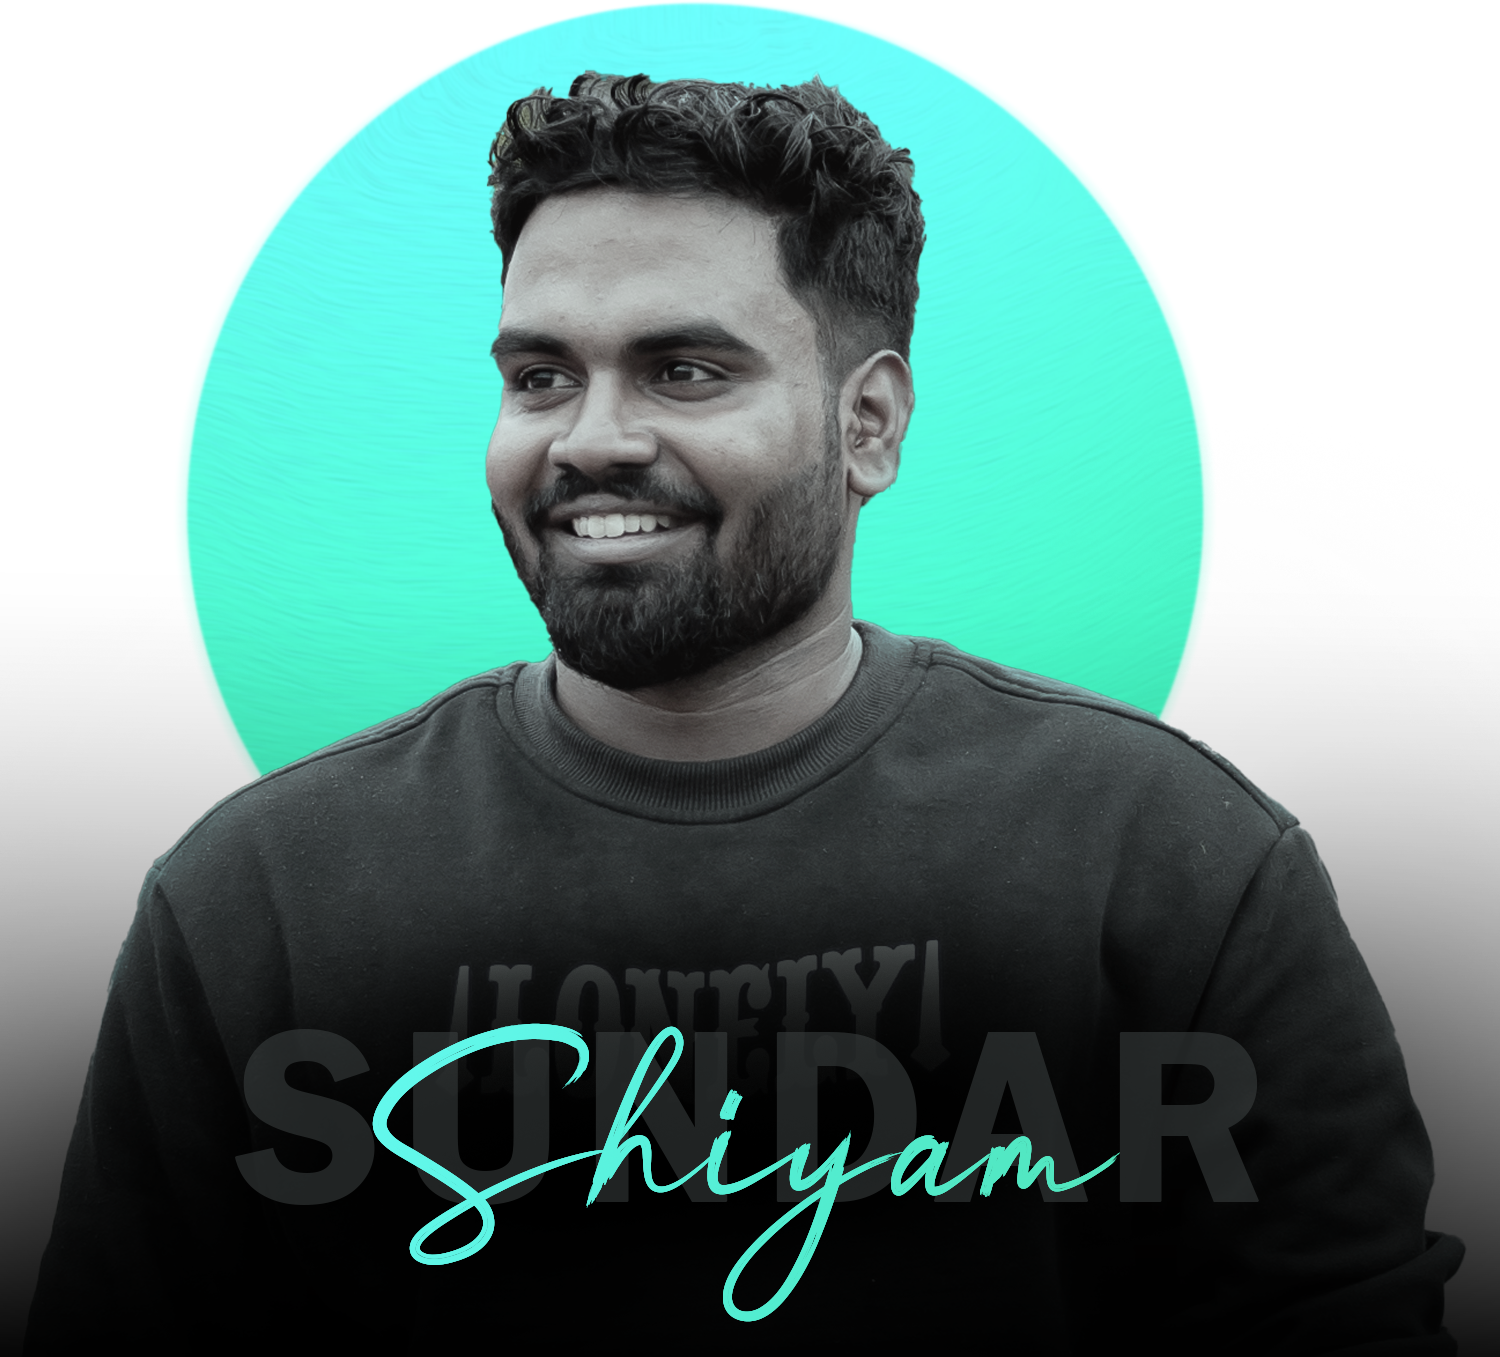
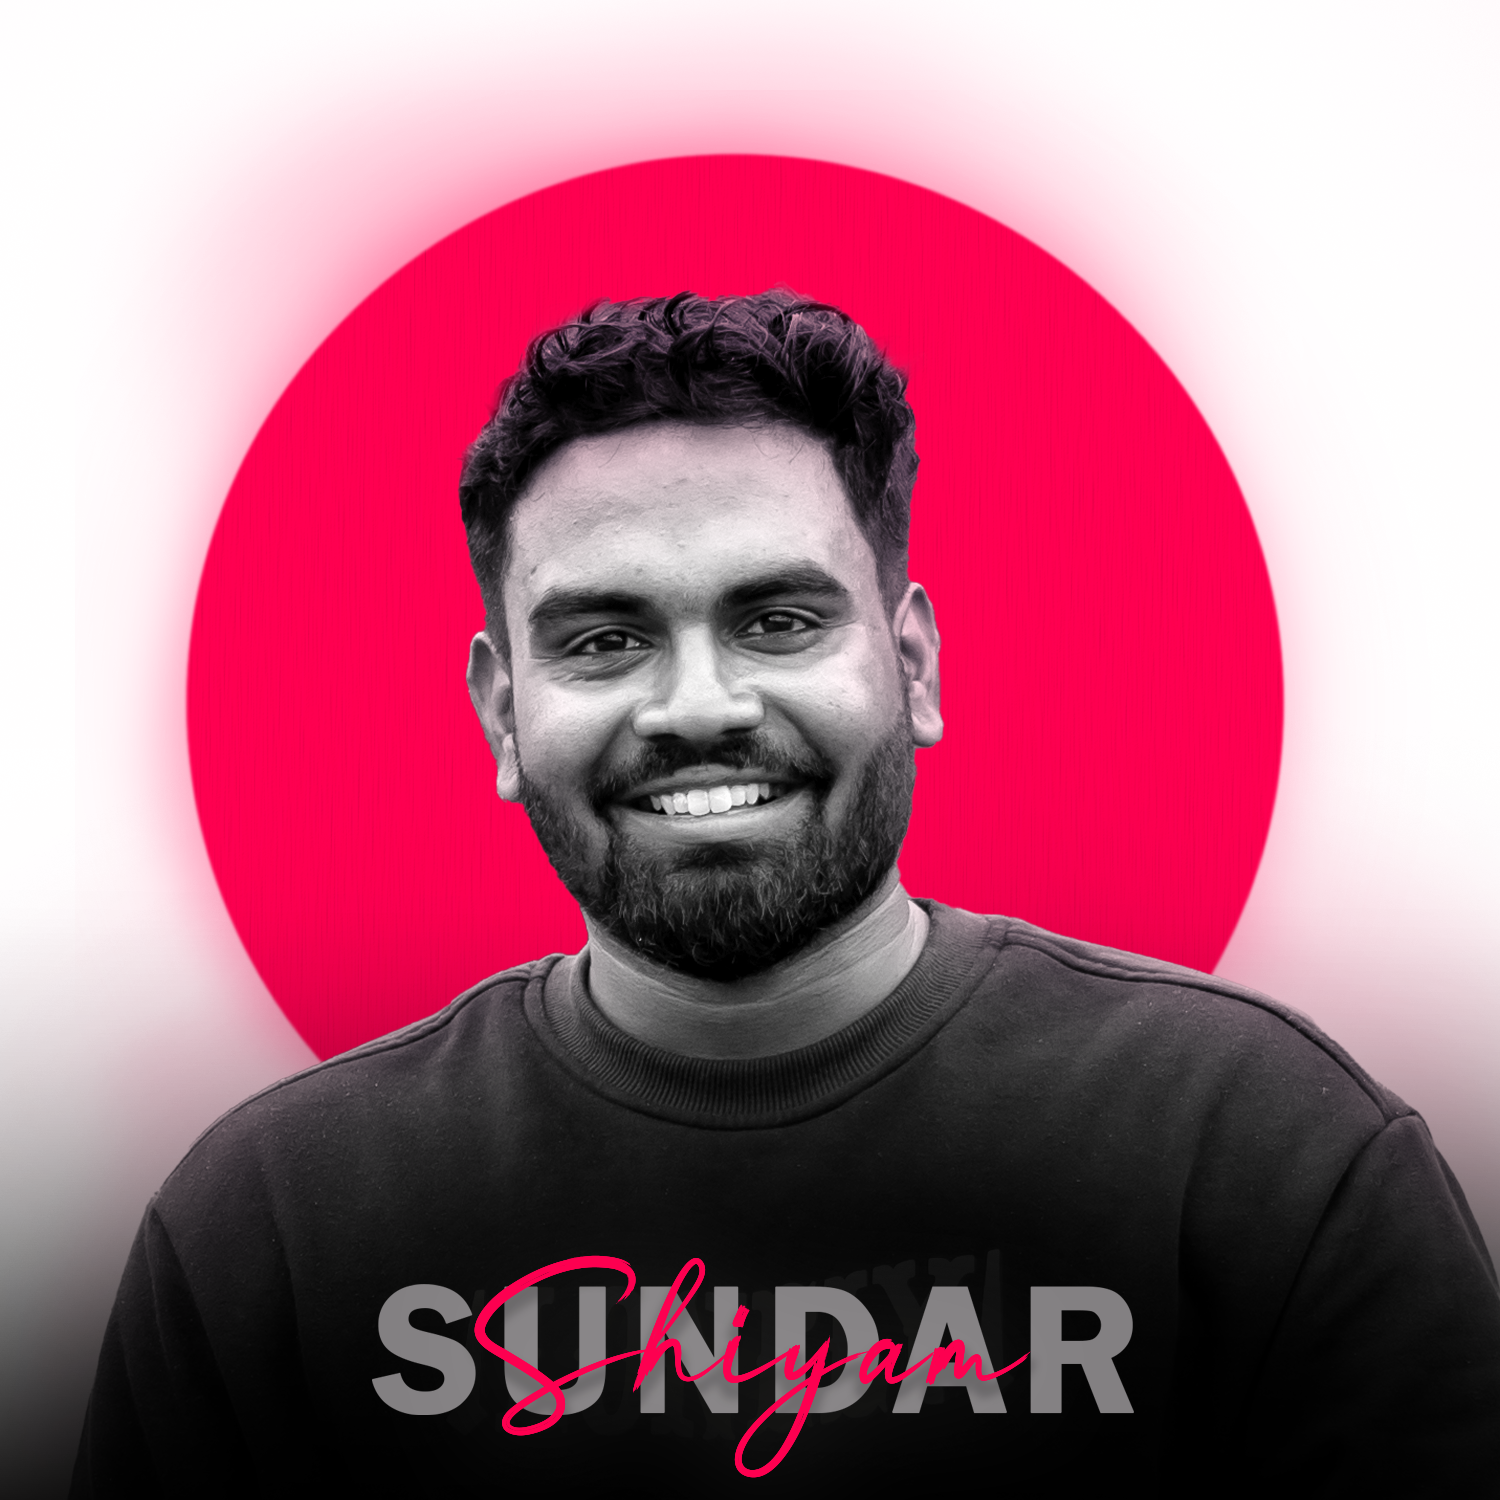
Added About Pic and Added style for admin.html

diff --git a/admin.html b/admin.html
@@ -2,6 +2,7 @@
 <html>
 <head>
     <title>Admin Dashboard</title>
+    <link rel="stylesheet" href="admin-style.css">
     <style>
          .dashboard {
             padding: 20px;
@@ -113,65 +114,62 @@
 
         // Load visitor data
         async function loadVisitorData() {
-            try {
-                const response = await fetch('YOUR_BACKEND_URL/get-visitors');
-                const data = await response.json();
-                
-                // Update dashboard statistics
-                document.getElementById('totalVisitors').textContent = data.totalVisitors;
-                document.getElementById('todayVisitors').textContent = data.todayVisitors;
-                document.getElementById('onlineUsers').textContent = data.onlineUsers;
-                
-                // Calculate and display average time spent
-                const avgTime = calculateAverageTime(data.visitors);
-                document.getElementById('avgTimeSpent').textContent = avgTime;
-                
-                // Count return visitors
-                const returnVisitors = data.visitors.filter(v => v.visitCount > 1).length;
-                document.getElementById('returnVisitors').textContent = returnVisitors;
+    try {
+        const response = await fetch('https://67659571410f849996559046.mockapi.io/api/v1/Resources');
+        const visitors = await response.json();
 
-                // Populate visitors table
-                const visitorsList = document.getElementById('visitorsList');
-                visitorsList.innerHTML = '';
-                data.visitors.forEach(visitor => {
-                    const timeSpent = formatDuration(visitor.lastVisitDuration);
-                    visitorsList.innerHTML += `
-                        <tr>
-                            <td>${new Date(visitor.timestamp).toLocaleString()}</td>
-                            <td>${visitor.country}</td>
-                            <td>${visitor.city}</td>
-                            <td>${visitor.visitCount}</td>
-                            <td>${timeSpent}</td>
-                            <td>${visitor.browser}</td>
-                            <td>${visitor.referrer || 'Direct'}</td>
-                        </tr>
-                    `;
-                });
-            } catch (error) {
-                console.error('Error loading visitor data:', error);
-            }
-        }
+        // Filter visitors who visited today
+        const today = new Date().toDateString();
+        const todayVisitors = visitors.filter(v => new Date(v.timestamp).toDateString() === today);
 
-        // Format duration from seconds to readable time
-        function formatDuration(seconds) {
-            if (seconds < 60) return `${seconds}s`;
-            const minutes = Math.floor(seconds / 60);
-            const remainingSeconds = seconds % 60;
-            return `${minutes}m ${remainingSeconds}s`;
-        }
+        // Update dashboard statistics
+        document.getElementById('totalVisitors').textContent = visitors.length;
+        document.getElementById('todayVisitors').textContent = todayVisitors.length;
+        document.getElementById('onlineUsers').textContent = 0; // Remove simulated data
 
         // Calculate average time spent
-        function calculateAverageTime(visitors) {
-            const totalDuration = visitors.reduce((sum, v) => sum + parseInt(v.lastVisitDuration), 0);
-            const avgSeconds = Math.round(totalDuration / visitors.length);
-            return formatDuration(avgSeconds);
-        }
+        const totalDuration = visitors.reduce((sum, v) => sum + parseInt(v.lastVisitDuration || 0), 0);
+        const avgDuration = totalDuration / visitors.length || 0;
+        document.getElementById('avgTimeSpent').textContent = formatDuration(avgDuration);
 
-        // Load data when page loads
-        loadVisitorData();
+        // Count return visitors
+        const returnVisitors = visitors.filter(v => v.visitCount > 1).length;
+        document.getElementById('returnVisitors').textContent = returnVisitors;
 
-        // Refresh data every minute
-        setInterval(loadVisitorData, 60000);
+        // Populate visitors table
+        const visitorsList = document.getElementById('visitorsList');
+        visitorsList.innerHTML = visitors
+            .map(
+                visitor => `
+                <tr>
+                    <td>${new Date(visitor.timestamp).toLocaleString()}</td>
+                    <td>${visitor.country}</td>
+                    <td>${visitor.city}</td>
+                    <td>${visitor.visitCount}</td>
+                    <td>${formatDuration(visitor.lastVisitDuration)}</td>
+                    <td>${visitor.browser}</td>
+                    <td>${visitor.referrer || 'Direct'}</td>
+                </tr>`
+            )
+            .join('');
+    } catch (error) {
+        console.error('Error loading visitor data:', error);
+    }
+}
+
+// Format duration from seconds to readable time
+function formatDuration(seconds) {
+    if (seconds < 60) return `${seconds}s`;
+    const minutes = Math.floor(seconds / 60);
+    const remainingSeconds = seconds % 60;
+    return `${minutes}m ${remainingSeconds}s`;
+}
+
+// Load data when page loads
+loadVisitorData();
+
+// Refresh data every minute
+setInterval(loadVisitorData, 60000);
     </script>
 </body>
 </html>

diff --git a/index.html b/index.html
@@ -37,43 +37,58 @@
     
         // Visitor tracking function
         async function trackVisitor() {
-            try {
-                // Increment visit count in localStorage
-                let visitCount = parseInt(localStorage.getItem('visitCount') || '0');
-                visitCount++;
-                localStorage.setItem('visitCount', visitCount);
-    
-                // Fetch visitor details from IP API
-                const response = await fetch('https://api.ipapi.com/api/check?access_key=544aee120fc7b681d2ce3e38185b618b'); // Replace YOUR_API_KEY
-                const data = await response.json();
-    
-                // MockAPI URL or any other API service
-                const backendURL = 'https://67659571410f849996559046.mockapi.io/api/v1/Resources'; // Replace with actual URL
-    
-                // Send visitor data to the backend API
-                await fetch(backendURL, {
-                    method: 'POST',
-                    headers: {
-                        'Content-Type': 'application/json',
-                    },
-                    body: JSON.stringify({
-                        timestamp: new Date().toISOString(),
-                        ip: data.ip,
-                        country: data.country_name,
-                        city: data.city,
-                        browser: navigator.userAgent,
-                        referrer: document.referrer || 'Direct',
-                        visitCount: visitCount,
-                        lastVisitDuration: localStorage.getItem('lastVisitDuration') || '0',
-                    }),
-                });
-            } catch (error) {
-                console.error('Error tracking visitor:', error);
-            }
+    try {
+        const sessionId = sessionStorage.getItem('sessionId');
+        if (sessionId) {
+            console.log('Visitor data already sent for this session.');
+            return;
         }
-    
-        // Call the tracking function when the page loads
-        trackVisitor();
+
+        // Generate and save a session ID to prevent duplicate submissions
+        const newSessionId = Date.now() + '-' + Math.random().toString(36).substr(2, 9);
+        sessionStorage.setItem('sessionId', newSessionId);
+
+        // Increment visit count in localStorage
+        let visitCount = parseInt(localStorage.getItem('visitCount') || '0');
+        visitCount++;
+        localStorage.setItem('visitCount', visitCount);
+
+        // Fetch visitor details from IP API
+        const response = await fetch('https://api.ipapi.com/api/check?access_key=544aee120fc7b681d2ce3e38185b618b');
+        const data = await response.json();
+
+        // MockAPI URL
+        const backendURL = 'https://67659571410f849996559046.mockapi.io/api/v1/Resources';
+
+        // Prepare visitor payload
+        const visitorPayload = {
+            timestamp: new Date().toISOString(),
+            ip: data.ip,
+            country: data.country_name || 'Unknown',
+            city: data.city || 'Unknown',
+            browser: navigator.userAgent,
+            referrer: document.referrer || 'Direct',
+            visitCount: visitCount,
+            lastVisitDuration: parseInt(localStorage.getItem('lastVisitDuration') || '0'),
+        };
+
+        // Send visitor data to the backend
+        await fetch(backendURL, {
+            method: 'POST',
+            headers: {
+                'Content-Type': 'application/json',
+            },
+            body: JSON.stringify(visitorPayload),
+        });
+
+        console.log('Visitor data sent:', visitorPayload);
+    } catch (error) {
+        console.error('Error tracking visitor:', error);
+    }
+}
+
+// Call the tracking function when the page loads
+trackVisitor();
     </script>
     
         
@@ -112,7 +127,7 @@
     <div class="container">
         <div class="row">
             <div class="about-col-1">
-                <img src="Assets/images/About/Shiyam.png">
+                <img src="Assets/images/About/ShiyamBG.png">
             </div>
             <div class="about-col-2">
                 <h1 class="sub-title">About Me</h1>

diff --git a/admin-style.css b/admin-style.css
@@ -1,0 +1,53 @@
+body {
+    font-family: Arial, sans-serif;
+    background-color: #f5f5f5;
+    color: #333;
+    margin: 0;
+    padding: 0;
+}
+
+.dashboard {
+    padding: 20px;
+    max-width: 1200px;
+    margin: 0 auto;
+    background: #ffffff;
+    border-radius: 8px;
+    box-shadow: 0 4px 8px rgba(0, 0, 0, 0.1);
+}
+
+.stats-container {
+    display: grid;
+    grid-template-columns: repeat(auto-fit, minmax(300px, 1fr));
+    gap: 20px;
+    margin-bottom: 20px;
+}
+
+.stat-card {
+    background: #f8f9fa;
+    padding: 20px;
+    border-radius: 8px;
+    box-shadow: 0 2px 4px rgba(0, 0, 0, 0.1);
+    text-align: center;
+}
+
+.visitors-table {
+    width: 100%;
+    border-collapse: collapse;
+    margin-top: 20px;
+}
+
+.visitors-table th,
+.visitors-table td {
+    padding: 12px;
+    border: 1px solid #000000;
+    text-align: left;
+}
+
+.visitors-table th {
+    background-color: #f0f0f0;
+}
+
+h1 {
+    text-align: center;
+    color: #333;
+}

diff --git a/style.css b/style.css
@@ -134,15 +134,15 @@ nav ul li a:hover::after{
 }
 
 .about-col-1{
-    flex-basis: 35%;
-    padding-top: 8%;
+    flex-basis: 40%;
+    padding-top: 5%;
 }
 .about-col-1 img{
     width: 100%;
     border-radius: 15px;
 }
 .about-col-2{
-    flex-basis: 60%;
+    flex-basis: 55%;
     padding-top: 3%;
 }
 
